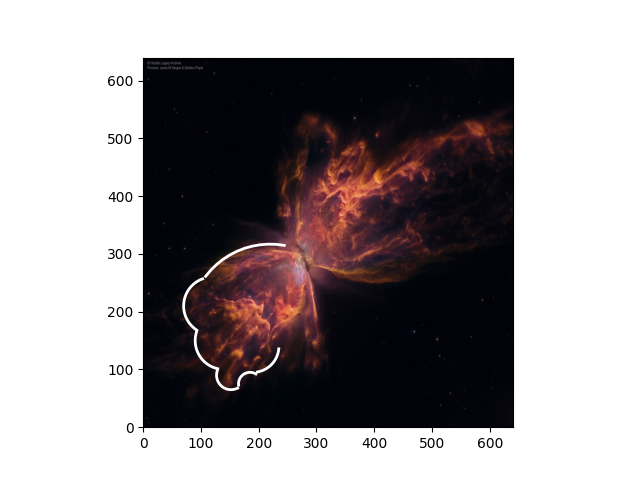
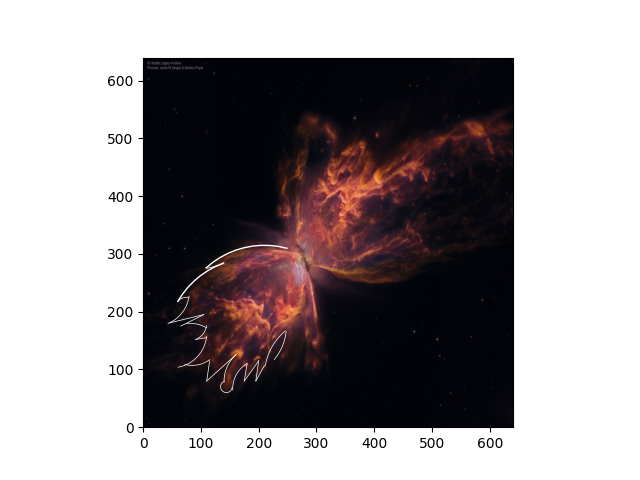
fgethbrnjm,

Changed region(s): [[0.25, 0.5, 0.4688, 0.8125], [0.4375, 0.6875, 0.4688, 0.7188]]

diff --git a/stage_1/slide_3_paint_on_image.py b/stage_1/slide_3_paint_on_image.py
@@ -12,57 +12,92 @@ def circle(R, x0, y0, starst, stop, step):
     y = y0 + R * np.sin(t)
     return x, y
 
-
-
-coords = circle(50, 120, 210, 11*np.pi/18, 4*np.pi/3, 0.1)
-plt.plot(coords[0], coords[1], lw=2, color='w')
+coords = circle(90, 158, 175, 16*np.pi/9, 2*np.pi, 0.1)
+plt.plot(coords[0], coords[1], lw=0.5, color='w')
 plt.savefig('slide_2_paint_image.png')
 
 
-coords = circle(50, 140, 150, 8*np.pi/9, 13*np.pi/9, 0.1)
-plt.plot(coords[0], coords[1], lw=2, color='w')
+
+
+
+
+coords = circle(100, 310, 90, 13*np.pi/18, 35*np.pi/36, 0.1)
+plt.plot(coords[0], coords[1], lw=0.5, color='w')
 plt.savefig('slide_2_paint_image.png')
 
-coords = circle(25, 152, 90, 8*np.pi/9, 5*np.pi/3, 0.1)
-plt.plot(coords[0], coords[1], lw=2, color='w')
+plt.plot([195, 210], [80, 107], lw=0.5, color='w')
 plt.savefig('slide_2_paint_image.png')
 
-coords = circle(20, 185, 75, np.pi/3, 19*np.pi/18, 0.1)
-plt.plot(coords[0], coords[1], lw=2, color='w')
+plt.plot([200, 195], [115, 80], lw=0.5, color='w')
 plt.savefig('slide_2_paint_image.png')
 
-coords = circle(45, 190, 140, 14*np.pi/9, 2*np.pi, 0.1)
-plt.plot(coords[0], coords[1], lw=2, color='w')
+plt.plot([175, 200], [80, 115], lw=0.5, color='w')
 plt.savefig('slide_2_paint_image.png')
 
-coords = circle(140, 220, 177, 4*np.pi/9, 29*np.pi/36, 0.1)
-plt.plot(coords[0], coords[1], lw=2, color='w')
+plt.plot([180, 175], [110, 80], lw=0.5, color='w')
 plt.savefig('slide_2_paint_image.png')
 
-#plt.plot([290, 310], [280, 130], lw=2, color='w')
-#plt.savefig('slide_2_paint_image.png')
+coords = circle(10, 144, 70, 11*np.pi/18, 2*np.pi, 0.1)
+plt.plot(coords[0], coords[1], lw=0.5, color='w')
+plt.savefig('slide_2_paint_image.png')
 
-#coords = circle(140, 390, 380, 5*np.pi/4, 11*np.pi/6, 0.1)
-#plt.plot(coords[0], coords[1], lw=2, color='w')
-#plt.savefig('slide_2_paint_image.png')
+coords = circle(50, 205, 67, 2*np.pi/3, 37*np.pi/36, 0.1)
+plt.plot(coords[0], coords[1], lw=0.5, color='w')
+plt.savefig('slide_2_paint_image.png')
 
-#coords = circle(170, 405, 410, 13*np.pi/18, 43*np.pi/36, 0.1)
-#plt.plot(coords[0], coords[1], lw=2, color='w')
-#plt.savefig('slide_2_paint_image.png')
+coords = circle(60, 200, 80, 13*np.pi/18, 37*np.pi/36, 0.1)
+plt.plot(coords[0], coords[1], lw=0.5, color='w')
+plt.savefig('slide_2_paint_image.png')
 
-#coords = circle(180, 550, 350, 7*np.pi/18, 7*np.pi/9, 0.1)
-#plt.plot(coords[0], coords[1], lw=2, color='w')
-#plt.savefig('slide_2_paint_image.png')
+plt.plot([110, 160], [80, 125], lw=0.5, color='w')
+plt.savefig('slide_2_paint_image.png')
 
-#plt.plot([510, 450], [310, 370], lw=2, color='w')
-#plt.savefig('slide_2_paint_image.png')
+plt.plot([115, 110], [115, 80], lw=0.5, color='w')
+plt.savefig('slide_2_paint_image.png')
 
-#plt.plot([295, 410], [540, 470], lw=2, color='w')
-#plt.savefig('slide_2_paint_image.png')
+coords = circle(50, 85, 157, 17*np.pi/12, 31*np.pi/18, 0.1)
+plt.plot(coords[0], coords[1], lw=0.5, color='w')
+plt.savefig('slide_2_paint_image.png')
 
-#coords = circle(190, 605, 270, np.pi/2, 5*np.pi/6, 0.1)
-#plt.plot(coords[0], coords[1], lw=2, color='w')
-#plt.savefig('slide_2_paint_image.png')
+coords = circle(60, 50, 163, 14*np.pi/9, 71*np.pi/36, 0.1)
+plt.plot(coords[0], coords[1], lw=0.5, color='w')
+plt.savefig('slide_2_paint_image.png')
 
-#plt.plot([610, 604], [517, 460], lw=2, color='w')
-#plt.savefig('slide_2_paint_image.png')
+plt.plot([90, 110], [152, 155], lw=0.5, color='w')
+plt.savefig('slide_2_paint_image.png')
+
+coords = circle(30, 80, 180, 59*np.pi/36, 71*np.pi/36, 0.1)
+plt.plot(coords[0], coords[1], lw=0.5, color='w')
+plt.savefig('slide_2_paint_image.png')
+
+coords = circle(60, 80, 120, np.pi/3, 5*np.pi/9, 0.1)
+plt.plot(coords[0], coords[1], lw=0.5, color='w')
+plt.savefig('slide_2_paint_image.png')
+
+plt.plot([105, 65], [195, 175], lw=0.5, color='w')
+plt.savefig('slide_2_paint_image.png')
+
+plt.plot([43, 105], [180, 195], lw=0.5, color='w')
+plt.savefig('slide_2_paint_image.png')
+
+coords = circle(60, 20, 235, 59*np.pi/36, 71*np.pi/36, 0.1)
+plt.plot(coords[0], coords[1], lw=0.5, color='w')
+plt.savefig('slide_2_paint_image.png')
+
+coords = circle(20, 75, 205, 4*np.pi/9, 7*np.pi/9, 0.1)
+plt.plot(coords[0], coords[1], lw=0.5, color='w')
+plt.savefig('slide_2_paint_image.png')
+
+coords = circle(150, 190, 143, 11*np.pi/18, 31*np.pi/36, 0.1)
+plt.plot(coords[0], coords[1], lw=1, color='w')
+plt.savefig('slide_2_paint_image.png')
+
+plt.plot([110, 130], [275, 280], lw=0.5, color='w')
+plt.savefig('slide_2_paint_image.png')
+
+coords = circle(150, 210, 165, 5*np.pi/12, 3*np.pi/4, 0.1)
+plt.plot(coords[0], coords[1], lw=1, color='w')
+plt.savefig('slide_2_paint_image.png')
+
+
+
